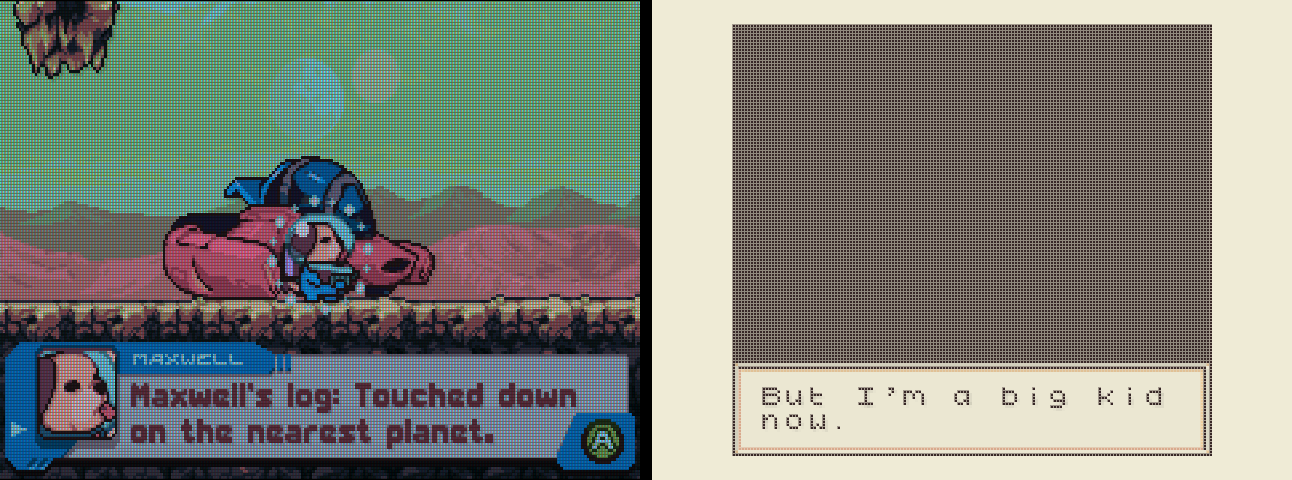
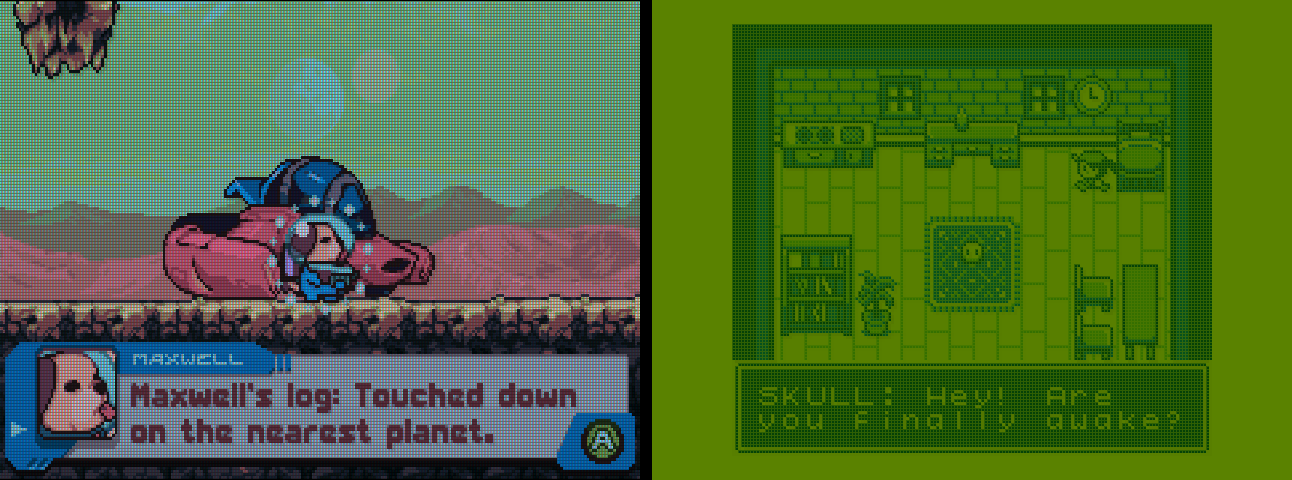
README: Hauntsfield in the original Game Boy green
The carousel now pushes Hauntsfield into the slot, and the gameplay shot shows it on the
DMG Green palette next to Goodboy Galaxy.

Claude-Session: https://claude.ai/code/session_01HspWrybW4guRb45yc1TcJq

diff --git a/README.md b/README.md
@@ -6,7 +6,7 @@
 
 Real cartridges on a shelf. A real cartridge slot. On your shelf in 3–5 seconds. Just pick a game and push it in.
 
-<img src=".github/resources/gravy/carousel.gif" width="640" alt="Scrolling the Game Boy shelf and pushing Mud Warriors into the slot">
+<img src=".github/resources/gravy/carousel.gif" width="640" alt="Scrolling the Game Boy shelf and pushing Hauntsfield into the slot">
 
 [**Download slot-x-gravy-v1.0**](https://github.com/roygravy/slot/releases) · [Install](#install) · [What's new](#whats-new) · [Controls](#controls)
 
@@ -75,7 +75,7 @@ A **Buttons** page in the menu lists every shortcut, everywhere. Hold **POWER** 
 
 ### Play
 
-<img src=".github/resources/gravy/gameplay.png" width="100%" alt="Goodboy Galaxy on mGBA and Mud Warriors on Gambatte">
+<img src=".github/resources/gravy/gameplay.png" width="100%" alt="Goodboy Galaxy on mGBA and Hauntsfield in the original Game Boy green">
 <img src=".github/resources/gravy/ingame.png" width="100%" alt="The in-game menu, and the Game Boy Color shelf in light">
 
 ### And more
@@ -133,7 +133,7 @@ slot. x GRAVY builds the same way slot. does; see [the slot. README](SLOT_README
 - **mGBA**, **gpSP** and **Gambatte**, the emulator cores (their licenses and sources ship in `System/licenses`)
 - **Permanent Marker** by Font Diner (Apache 2.0) for the handwritten titles
 - **Liberation Sans** by Red Hat (SIL OFL 1.1), subset as "slot Serial", for the serial sticker on the About page
-- **Goodboy Galaxy** (demo) and **Mud Warriors**, the free games in the screenshots
+- **Goodboy Galaxy** (demo), **Hauntsfield** and **Mud Warriors**, the free games in the screenshots
 
 Like slot., slot. x GRAVY was put together with help from Claude.
 
